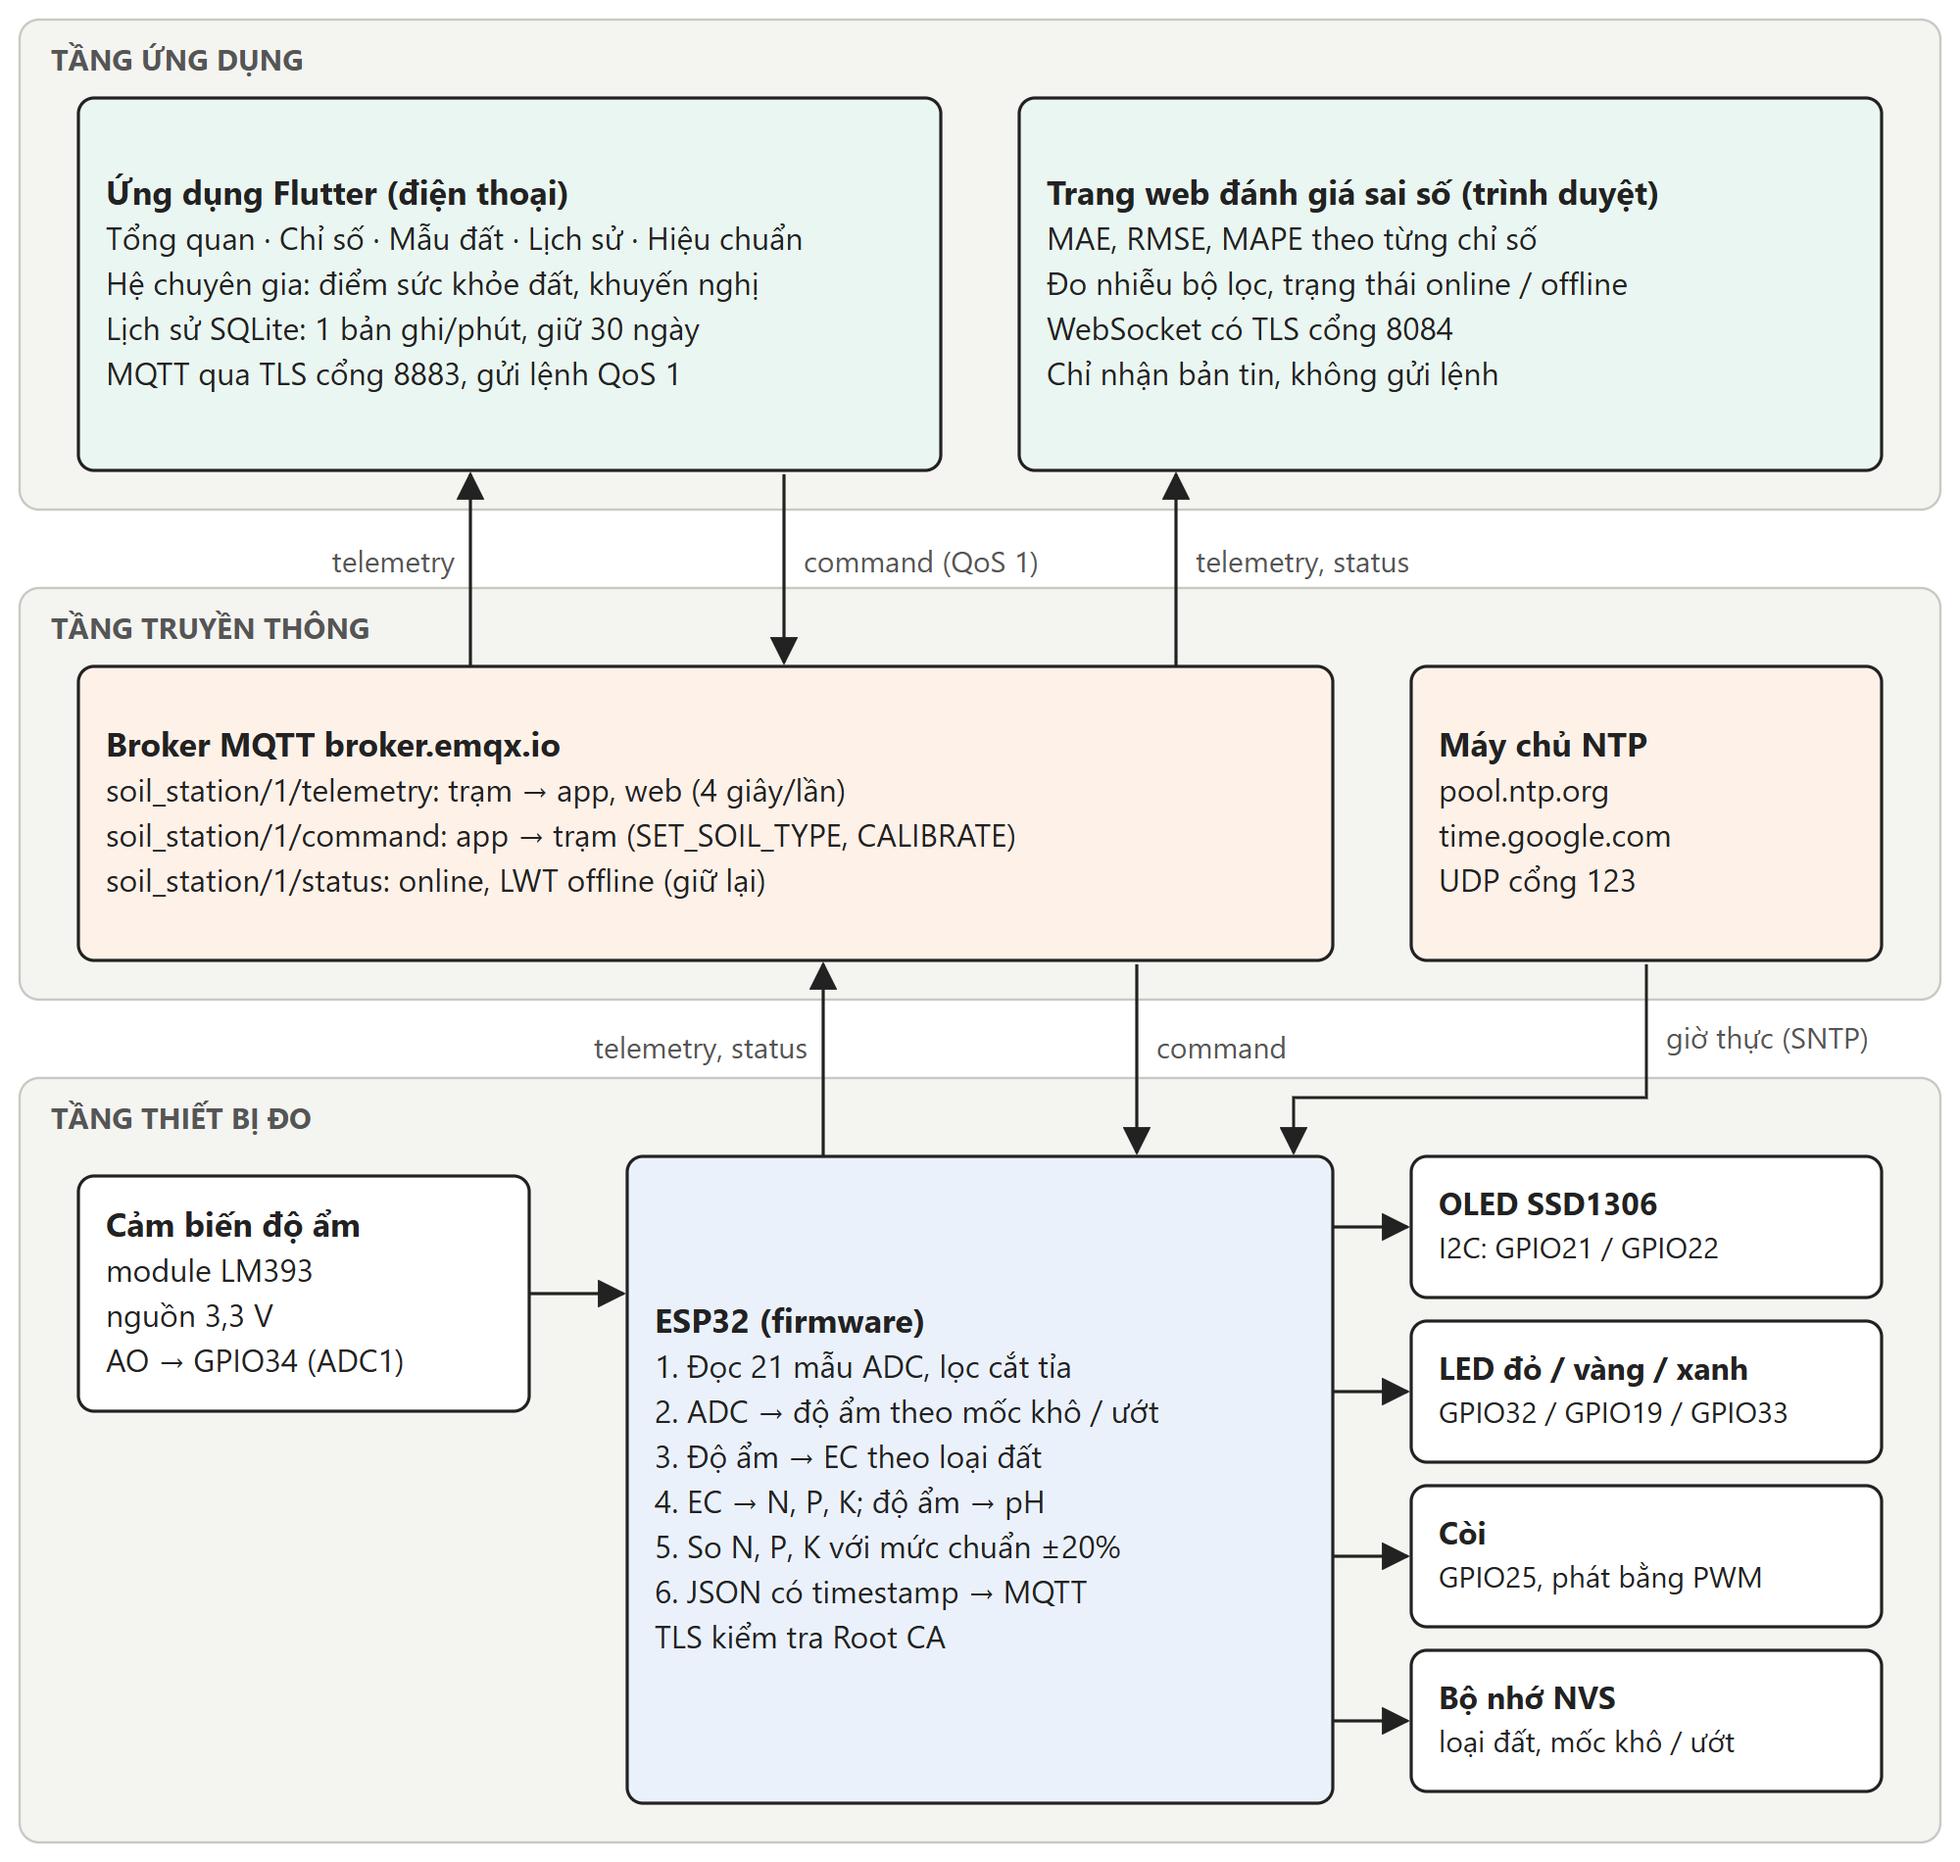
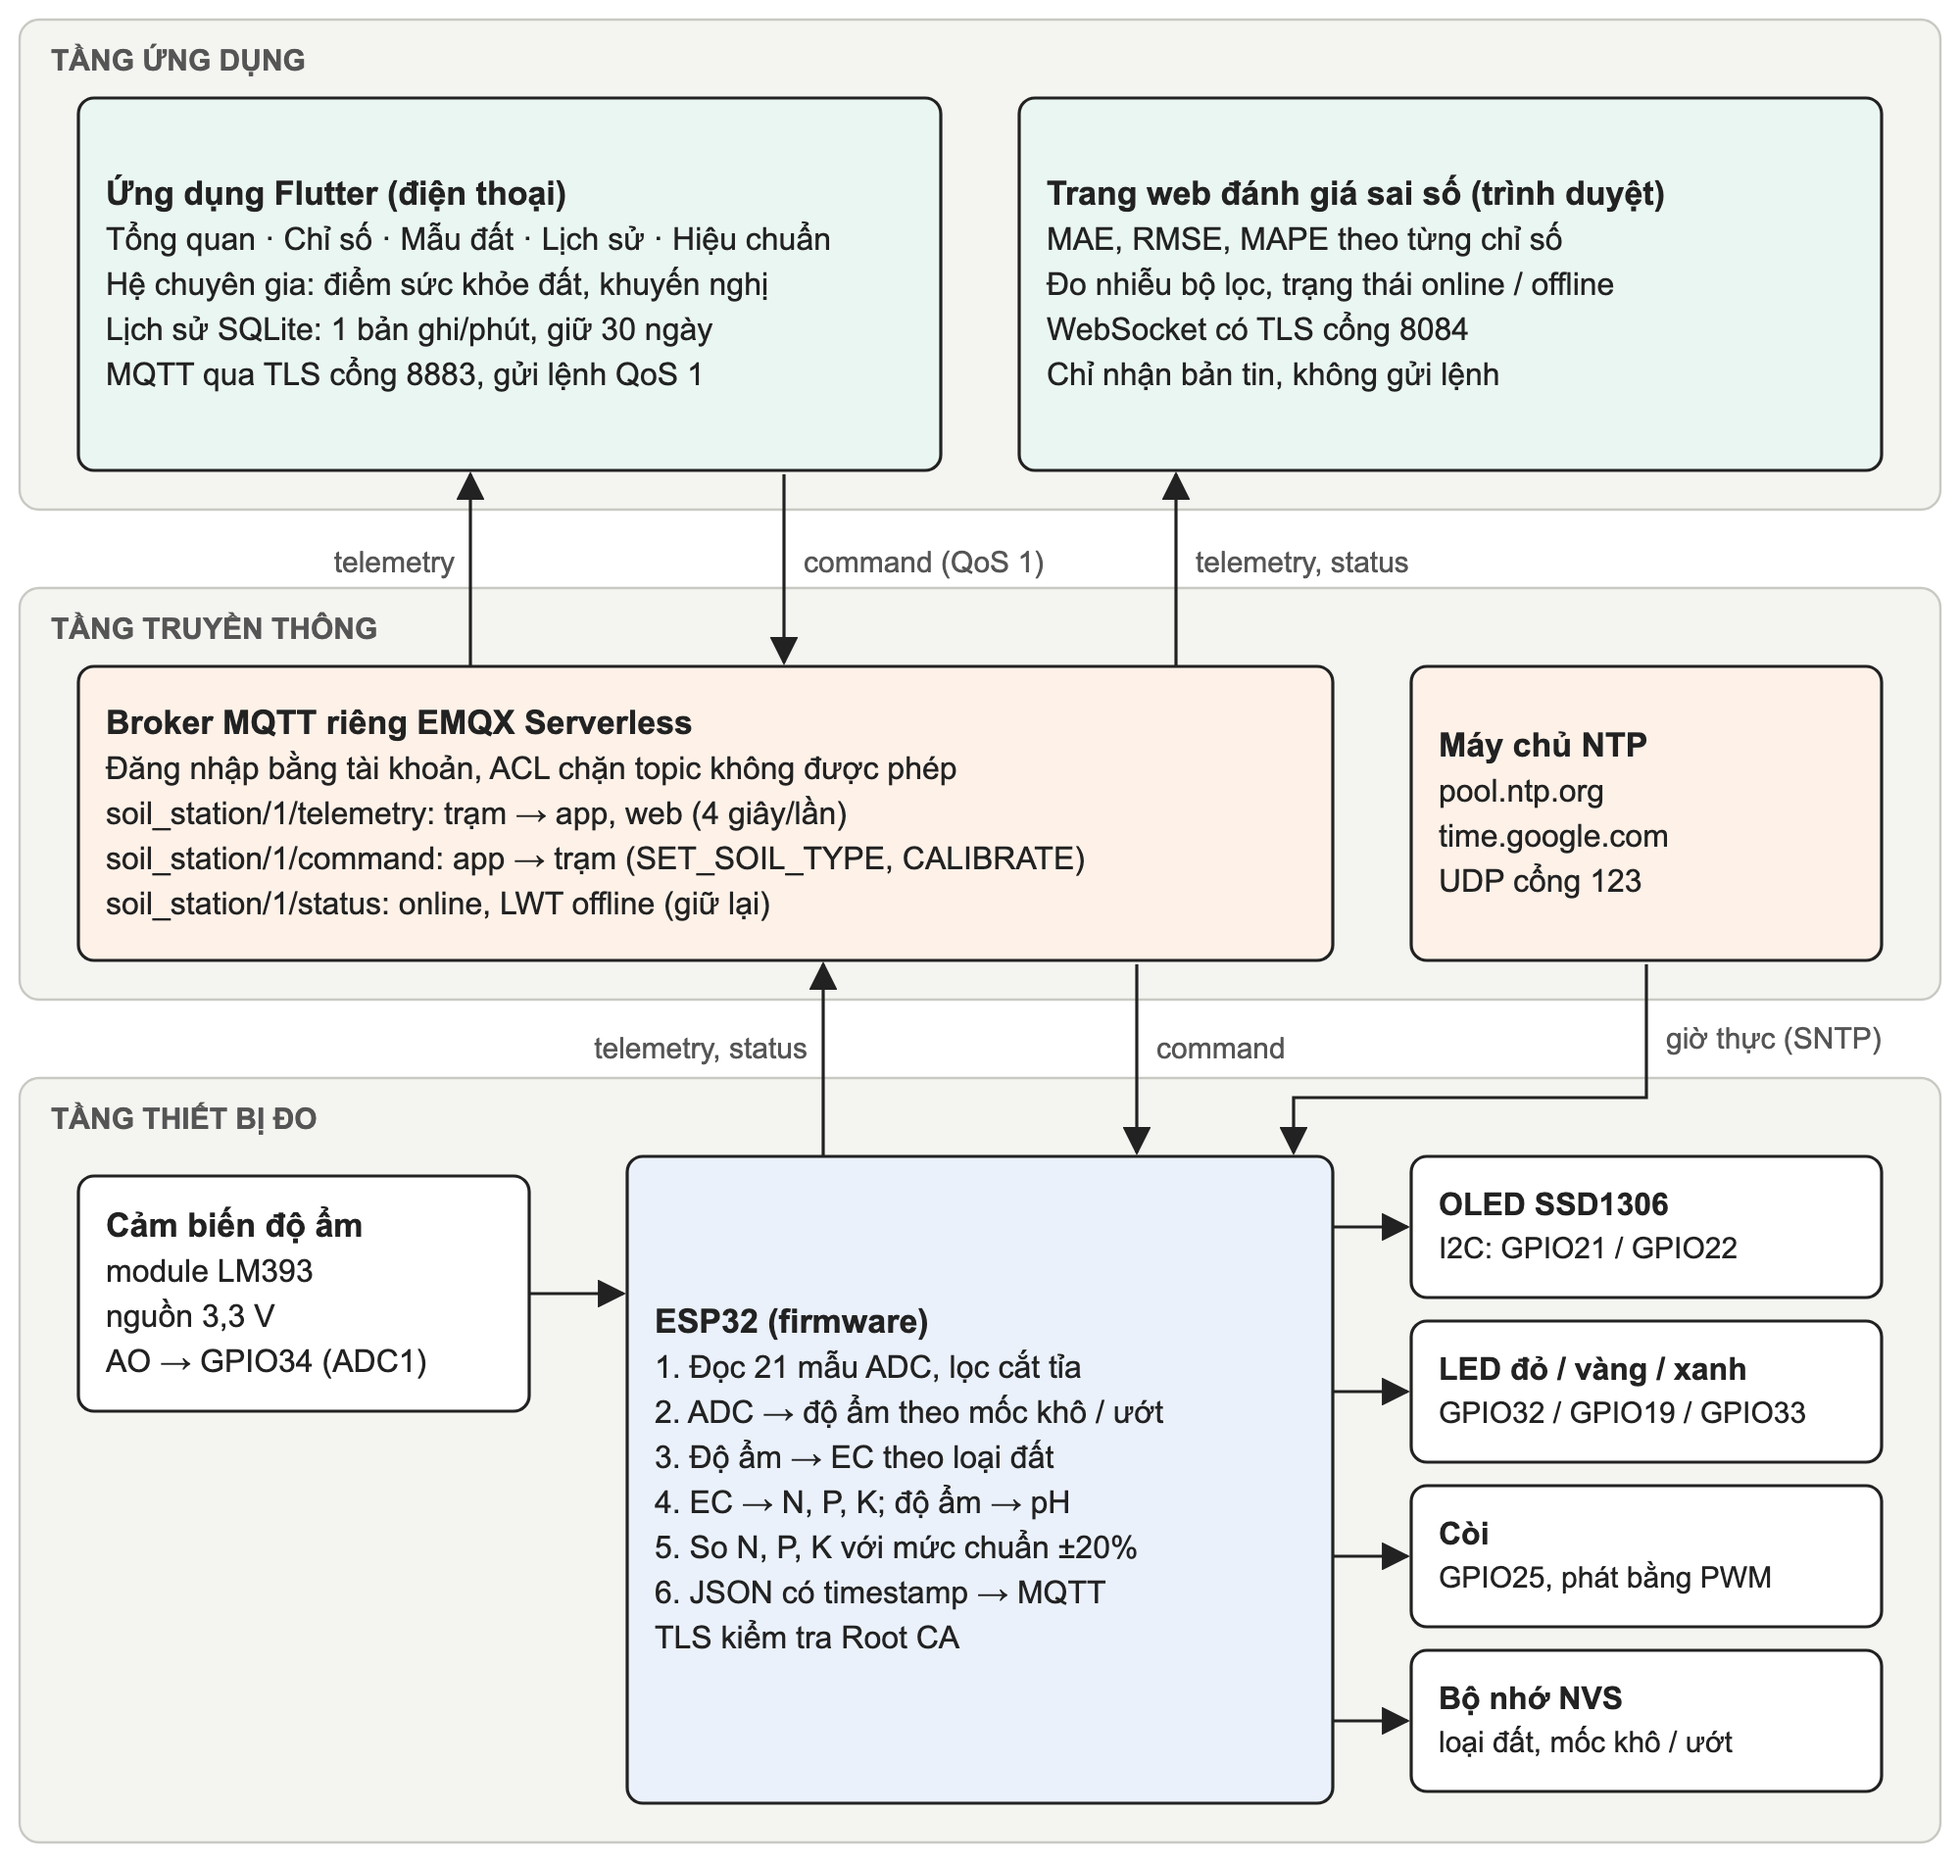
docs(report): show the private EMQX broker in figure 3.1

diff --git a/docs/hinh/hinh-3-1-kien-truc.html b/docs/hinh/hinh-3-1-kien-truc.html
@@ -26,10 +26,11 @@
 <text x="534" y="173.5" font-size="16" font-weight="normal" text-anchor="start" fill="#222222">WebSocket có TLS cổng 8084</text>
 <text x="534" y="196.5" font-size="16" font-weight="normal" text-anchor="start" fill="#222222">Chỉ nhận bản tin, không gửi lệnh</text>
 <rect x="40" y="340" width="640" height="150" rx="8" fill="#fdf1e8" stroke="#222222" stroke-width="1.6"/>
-<text x="54" y="386.0" font-size="17" font-weight="bold" text-anchor="start" fill="#222222">Broker MQTT broker.emqx.io</text>
-<text x="54" y="409.0" font-size="16" font-weight="normal" text-anchor="start" fill="#222222">soil_station/1/telemetry: trạm → app, web (4 giây/lần)</text>
-<text x="54" y="432.0" font-size="16" font-weight="normal" text-anchor="start" fill="#222222">soil_station/1/command: app → trạm (SET_SOIL_TYPE, CALIBRATE)</text>
-<text x="54" y="455.0" font-size="16" font-weight="normal" text-anchor="start" fill="#222222">soil_station/1/status: online, LWT offline (giữ lại)</text>
+<text x="54" y="374.5" font-size="17" font-weight="bold" text-anchor="start" fill="#222222">Broker MQTT riêng EMQX Serverless</text>
+<text x="54" y="397.5" font-size="16" font-weight="normal" text-anchor="start" fill="#222222">Đăng nhập bằng tài khoản, ACL chặn topic không được phép</text>
+<text x="54" y="420.5" font-size="16" font-weight="normal" text-anchor="start" fill="#222222">soil_station/1/telemetry: trạm → app, web (4 giây/lần)</text>
+<text x="54" y="443.5" font-size="16" font-weight="normal" text-anchor="start" fill="#222222">soil_station/1/command: app → trạm (SET_SOIL_TYPE, CALIBRATE)</text>
+<text x="54" y="466.5" font-size="16" font-weight="normal" text-anchor="start" fill="#222222">soil_station/1/status: online, LWT offline (giữ lại)</text>
 <rect x="720" y="340" width="240" height="150" rx="8" fill="#fdf1e8" stroke="#222222" stroke-width="1.6"/>
 <text x="734" y="386.0" font-size="17" font-weight="bold" text-anchor="start" fill="#222222">Máy chủ NTP</text>
 <text x="734" y="409.0" font-size="16" font-weight="normal" text-anchor="start" fill="#222222">pool.ntp.org</text>

diff --git a/docs/hinh/ve_hinh.py b/docs/hinh/ve_hinh.py
@@ -99,7 +99,8 @@ def hinh_3_1():
         "Chỉ nhận bản tin, không gửi lệnh",
     ], fill="#eaf6f1")
 
-    s.box(40, 340, 640, 150, "Broker MQTT broker.emqx.io", [
+    s.box(40, 340, 640, 150, "Broker MQTT riêng EMQX Serverless", [
+        "Đăng nhập bằng tài khoản, ACL chặn topic không được phép",
         "soil_station/1/telemetry: trạm → app, web (4 giây/lần)",
         "soil_station/1/command: app → trạm (SET_SOIL_TYPE, CALIBRATE)",
         "soil_station/1/status: online, LWT offline (giữ lại)",
